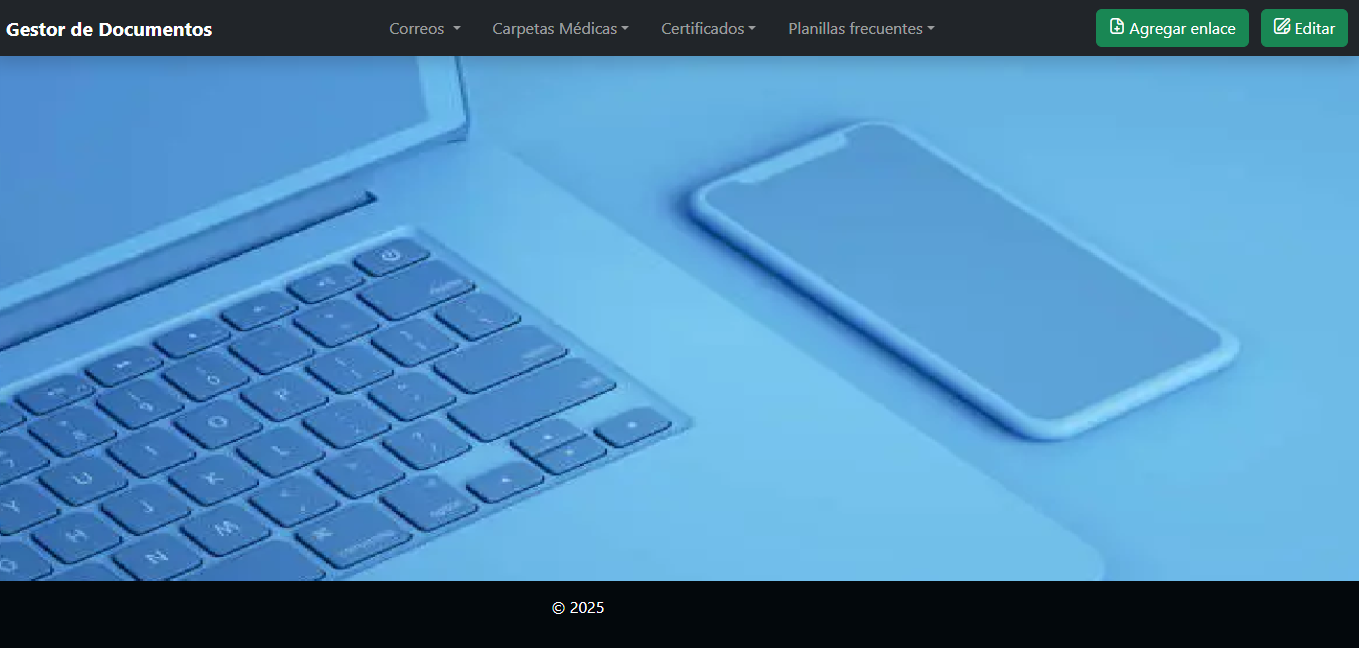
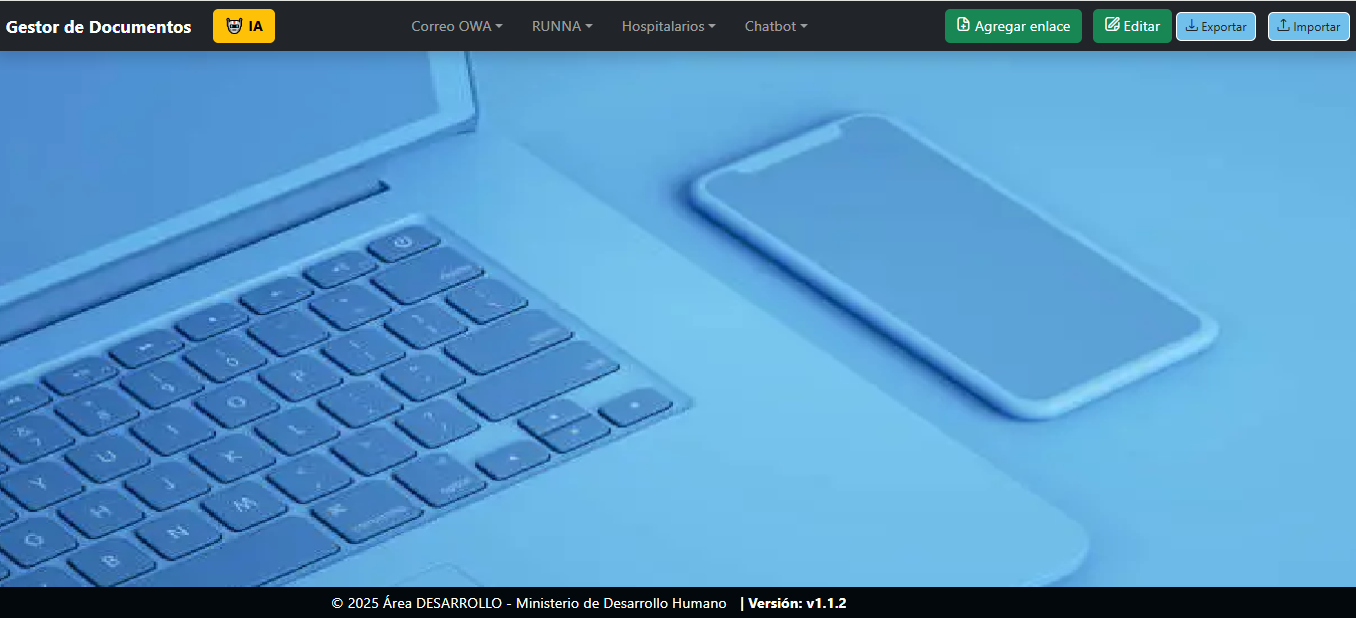
Seguridad de la API y Readme

diff --git a/script.js b/script.js
@@ -4,9 +4,6 @@
 const APP_VERSION = "v1.1.2";
 
 
-// RECUERDA: La clave debajo es la que termina en "h-VA" que creaste hoy
-const API_KEY = "AIzaSyBp6Nlj18Rm3ugRMU45cbWh8z67giOvvWc"; 
-
 // Función que carga documentos en el iframe
 function loadDocument(url) {
     document.getElementById('documentViewer').src = url;
@@ -374,6 +371,13 @@ window.sendIAQuery = async function() {
                         2. Si el usuario te pregunta quién eres, preséntate como el asistente del Ministerio.
                         3. Sé amable pero profesional. No asumas nombres de usuario a menos que te lo digan.
                         4. Si ves que un documento tiene "tags" o "etiquetas", úsalas para saber si ese doc es relevante.
+                        5. SOBRE ESTA APP (Guía de Ayuda): 
+                        Esta aplicación es el "Gestor de Documentos v1.1.2", creada para solucionar el desorden de archivos en Drive y centralizar el acceso rápido a la documentación de la oficina.
+                        - Propósito: Evitar que los documentos se pierdan. Permite tener a mano los links directos de Drive o Web organizados por categorías.
+                        - Visor: Al hacer click en un enlace, el documento se abre en el panel central sin salir de la app.
+                        - Gestión: El usuario puede "Agregar enlace" para guardar sus propios documentos de Drive o "Editar" categorías existentes para mejorar su organización como asi también etiquetas, todo desde los botones de la interfaz.
+                        - Sincronización: Si el usuario cambia de PC, debe usar "Exportar" para bajar un archivo .json con sus links y luego "Importar" en la nueva máquina para recuperar sus enlaces.
+   
        Contexto actual de los documentos disponibles: ${contexto}
                         Pregunta del usuario: ${userText}` 
                     }]

diff --git a/index.html b/index.html
@@ -73,6 +73,7 @@
     </footer>
 
     
+    <script src="config.js"></script>
     <!-- Scripts: no quitarlo de aqui -->
     <script src="https://cdn.jsdelivr.net/npm/bootstrap@5.3.2/dist/js/bootstrap.bundle.min.js"></script>
     

diff --git a/README.md b/README.md
@@ -22,13 +22,14 @@ El diseño base, estructura de navegación y organización de contenidos pertene
 - Reemplazo del diseño en columnas por una barra de navegación moderna con menús desplegables.
 - Incorporación de un iframe para visualizar documentos directamente en la página, evitando abrir ventanas externas.
 - Implementación de botones “Agregar enlace” y “Editar”, que permiten gestionar los contenidos de forma dinámica.
-- Funcionalidad para eliminar enlaces con confirmación, directamente desde la interfaz.
-- Posibilidad de editar los nombres de los menús desplegables, personalizando la navegación.
+- Funcionalidad para eliminar enlaces con confirmación, directamente desde la interfaz. 
 - Uso de modales personalizados para agregar y editar enlaces, mejorando la experiencia de usuario.
+- NUEVA FUNCIONALIDAD: El modal de edición ahora permite gestionar de forma masiva tanto los nombres de las categorías como los títulos de cada enlace y sus respectivas etiquetas (tags) para la IA, todo desde una misma interfaz centralizada.
 - Persistencia de cambios mediante localStorage, permitiendo que las personalizaciones se mantengan entre sesiones.
 - Modularización del código para una estructura más limpia y mantenible.
 - Incorporación de íconos visuales con Flaticon para enriquecer la interfaz.
 - NUEVA FUNCIONALIDAD Exportar e Importar enlaces: La aplicación permite sincronizar configuraciones personales entre distintas computadoras mediante archivos JSON.
+- NUEVA FUNCIONALIDAD: Integración de Gemini 2.5 para la asistencia inteligente a cerca de la aplicación
 
 
 
@@ -45,6 +46,8 @@ Exportar: genera un archivo enlaces.json con los enlaces guardados en el localSt
 Importar: permite cargar ese archivo en otra computadora. Al hacerlo, la aplicación lo guarda en el localStorage de esa máquina, replicando la configuración original.
 
 Nota: cada usuario mantiene su propia configuración. El archivo exportado es un backup personal y no afecta a otros usuarios. Este procedimiento manual asegura que, aunque uses varias PCs, puedas mantener la misma lista de enlaces en todas ellas.
+
+6. Asistente IA Integrado: Incorporación de un chatbot basado en Gemini que conoce el contexto de los documentos cargados y permite realizar consultas inteligentes, devolviendo enlaces directos para su visualización.
 
 ## Tecnologías Utilizadas:
 
